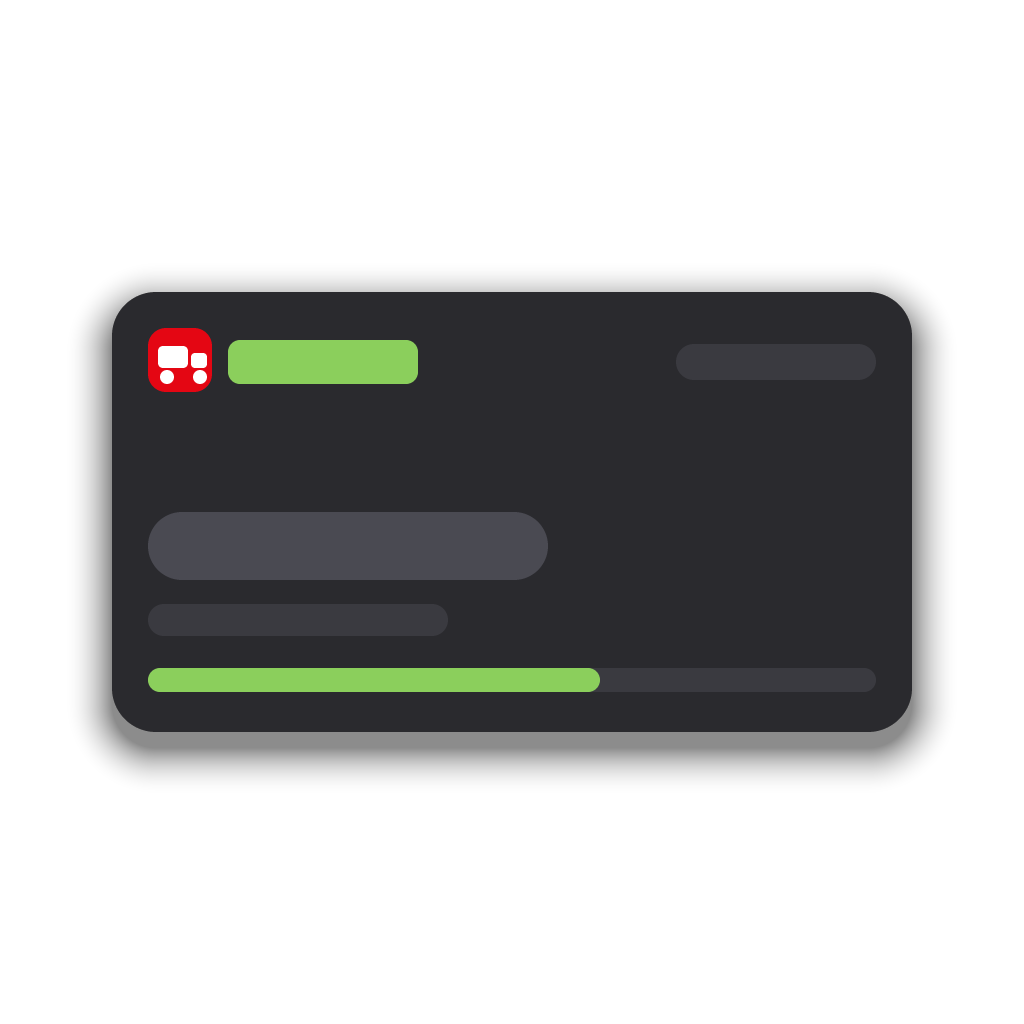
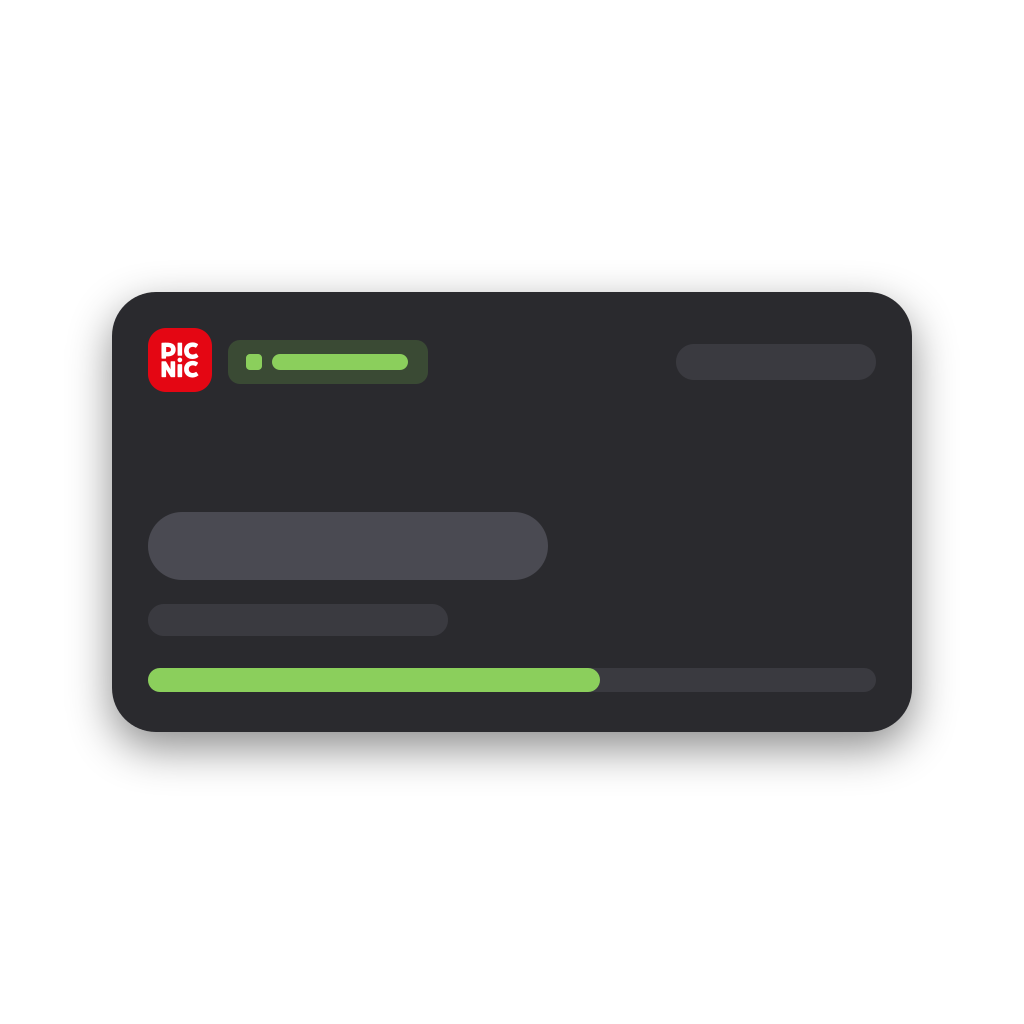
Show every state of the widget without a Homey
`make gallery` serves the widget's own page fed each state in
test/support/widgetstates.js, in both widths, both themes and either
language, for working on the widget without installing it after every
change. `make previews` redraws the App Store preview images from an
SVG through rsvg-convert, so Picnic's mark can be on them the way it is
on the widget; the shapes drawn by hand before could not carry it.

Changed region(s): [[0.0938, 0.2812, 0.9062, 0.75], [0.1562, 0.3125, 0.4375, 0.375]]

diff --git a/scripts/widget-gallery.js b/scripts/widget-gallery.js
@@ -1,0 +1,155 @@
+#!/usr/bin/env node
+'use strict';
+
+// Shows every state of the delivery widget in a browser, without a Homey: the
+// widget's own page, fed the payloads in test/support/widgetstates.js by a
+// stand-in for the Homey object, on a page that lays them out in both widths
+// and both themes. For looking at the widget while working on it:
+//
+//   make gallery          (or: node scripts/widget-gallery.js)
+//
+// then open the address it prints. Edit widgets/delivery/public/index.html or
+// the states and reload. PORT picks another port.
+
+const fs = require('fs');
+const http = require('http');
+const path = require('path');
+const { widgetStates } = require('../test/support/widgetstates.js');
+
+const ROOT = path.join(__dirname, '..');
+const PUBLIC = path.join(ROOT, 'widgets', 'delivery', 'public');
+const PORT = Number(process.env.PORT) || 8770;
+
+// The Homey style variables the widget reads, with the values a dashboard
+// gives them, as far as they are known; the widget has a fallback for each.
+const THEMES = {
+  light: "--homey-text-color:#1b1b1d;--homey-text-color-light:#86868b;--homey-background-color:#ffffff;",
+  dark: "--homey-text-color:#f2f2f4;--homey-text-color-light:#8e8e93;--homey-background-color:#1c1c1e;"
+};
+
+const TYPES = { '.html': 'text/html; charset=utf-8', '.js': 'text/javascript', '.css': 'text/css', '.svg': 'image/svg+xml', '.png': 'image/png', '.json': 'application/json' };
+
+function page() {
+  return `<!doctype html>
+<html lang="en">
+<head>
+<meta charset="utf-8">
+<title>Delivery widget, every state</title>
+<style>
+  body { margin: 0; padding: 20px; font-family: -apple-system, BlinkMacSystemFont, 'Segoe UI', Roboto, sans-serif; background: #c9c9d0; color: #1b1b1d; }
+  header { display: flex; flex-wrap: wrap; gap: 16px; align-items: center; margin-bottom: 20px; font-size: 14px; }
+  header label { display: inline-flex; gap: 6px; align-items: center; }
+  .theme { padding: 16px; border-radius: 16px; margin-bottom: 20px; }
+  .light { background: #eceff3; }
+  .dark { background: #0d0d0e; color: #eee; }
+  .theme h2 { margin: 0 0 12px; font-size: 13px; font-weight: 600; opacity: .6; }
+  .grid { display: flex; flex-wrap: wrap; gap: 16px; align-items: flex-start; }
+  figure { margin: 0; }
+  figcaption { font-size: 11px; opacity: .6; margin-top: 4px; max-width: 358px; }
+  iframe { display: block; border: 0; border-radius: 18px; height: 188px; background: #fff; box-shadow: 0 1px 3px rgba(0,0,0,.08); }
+  .dark iframe { background: #1c1c1e; }
+  pre { display: none; font-size: 11px; white-space: pre-wrap; max-width: 358px; }
+  figure.open pre { display: block; }
+</style>
+</head>
+<body>
+<header>
+  <strong>Delivery widget</strong>
+  <label>language <select id="lang"><option value="nl">nl</option><option value="en">en</option></select></label>
+  <label>width <select id="width"><option value="358">full (358 px)</option><option value="171">half (171 px)</option><option value="both">both</option></select></label>
+  <label>theme <select id="theme"><option value="both">both</option><option value="light">light</option><option value="dark">dark</option></select></label>
+  <span style="opacity:.6">click a tile's caption for its payload</span>
+</header>
+<div id="galleries"></div>
+<script>
+const THEMES = ${JSON.stringify(THEMES)};
+const controls = { lang: document.getElementById('lang'), width: document.getElementById('width'), theme: document.getElementById('theme') };
+const query = new URLSearchParams(location.search);
+for (const key in controls) { if (query.get(key)) controls[key].value = query.get(key); controls[key].addEventListener('change', build); }
+
+async function build() {
+  const params = new URLSearchParams(Object.fromEntries(Object.entries(controls).map(([k, c]) => [k, c.value])));
+  history.replaceState(null, '', '?' + params);
+  const states = await fetch('/states.json?lang=' + controls.lang.value).then(r => r.json());
+  const themes = controls.theme.value == 'both' ? ['light', 'dark'] : [controls.theme.value];
+  const widths = controls.width.value == 'both' ? [358, 171] : [Number(controls.width.value)];
+  const galleries = document.getElementById('galleries');
+  galleries.textContent = '';
+
+  for (const theme of themes) {
+    for (const width of widths) {
+      const section = document.createElement('div');
+      section.className = 'theme ' + theme;
+      section.innerHTML = '<h2>' + theme + ' · ' + width + ' px</h2><div class="grid"></div>';
+      const grid = section.querySelector('.grid');
+
+      for (const id in states) {
+        const figure = document.createElement('figure');
+        const frame = document.createElement('iframe');
+        frame.style.width = width + 'px';
+        frame.title = id;
+        frame.src = '/widget/index.html';
+        frame.addEventListener('load', () => mount(frame, theme, states[id].payload));
+        const caption = document.createElement('figcaption');
+        caption.textContent = id + ' — ' + states[id].title;
+        caption.addEventListener('click', () => figure.classList.toggle('open'));
+        const dump = document.createElement('pre');
+        dump.textContent = JSON.stringify(Object.assign({}, states[id].payload, { labels: '…' }), null, 1);
+        figure.append(frame, caption, dump);
+        grid.append(figure);
+      }
+
+      galleries.append(section);
+    }
+  }
+}
+
+// What Homey does to the widget's page before the widget's own script runs:
+// the style variables, the dark mode class, and the Homey object.
+function mount(frame, theme, payload) {
+  const doc = frame.contentDocument;
+  if (theme == 'dark') doc.body.classList.add('homey-dark-mode');
+  doc.documentElement.style.cssText = THEMES[theme] + 'font-family:-apple-system,BlinkMacSystemFont,"Segoe UI",Roboto,sans-serif;color:var(--homey-text-color);background:var(--homey-background-color)';
+  frame.contentWindow.onHomeyReady({
+    getSettings: () => ({}),
+    on() { },
+    ready() { },
+    api: () => Promise.resolve(payload)
+  });
+}
+
+build();
+</script>
+</body>
+</html>`;
+}
+
+const server = http.createServer((request, response) => {
+  const url = new URL(request.url, 'http://localhost');
+
+  if (url.pathname == '/') {
+    response.writeHead(200, { 'Content-Type': TYPES['.html'] });
+    return response.end(page());
+  }
+
+  if (url.pathname == '/states.json') {
+    response.writeHead(200, { 'Content-Type': TYPES['.json'], 'Cache-Control': 'no-store' });
+    return response.end(JSON.stringify(widgetStates(url.searchParams.get('lang') == 'en' ? 'en' : 'nl')));
+  }
+
+  if (url.pathname.startsWith('/widget/')) {
+    const file = path.normalize(path.join(PUBLIC, url.pathname.slice('/widget/'.length)));
+
+    if (file.startsWith(PUBLIC) && fs.existsSync(file) && fs.statSync(file).isFile()) {
+      response.writeHead(200, { 'Content-Type': TYPES[path.extname(file)] || 'application/octet-stream', 'Cache-Control': 'no-store' });
+      return fs.createReadStream(file).pipe(response);
+    }
+  }
+
+  response.writeHead(404);
+  response.end('not here');
+});
+
+server.listen(PORT, '127.0.0.1', () => {
+  console.log('The widget gallery is at http://127.0.0.1:' + PORT + '/ (stop it with ctrl-c)');
+});

diff --git a/scripts/previews.js b/scripts/previews.js
@@ -1,0 +1,75 @@
+#!/usr/bin/env node
+'use strict';
+
+// Draws widgets/delivery/preview-light.png and preview-dark.png, the pictures
+// of the widget in the App Store and in the widget picker, the way Homey's
+// preview template does: the widget's own frame with the template's soft
+// shadow on a transparent 1024x1024 canvas, and inside it the shape of the
+// widget with nothing written on it. No text, simple shapes, few colours; the
+// one exception to "no text" is Picnic's mark, which is the widget's icon.
+//
+//   make previews         (or: node scripts/previews.js)
+//
+// Needs rsvg-convert (librsvg): brew install librsvg.
+
+const fs = require('fs');
+const path = require('path');
+const { execFileSync } = require('child_process');
+
+const ROOT = path.join(__dirname, '..');
+const OUT = path.join(ROOT, 'widgets', 'delivery');
+
+// Picnic's mark: the letters of the app icon, the same file the widget uses
+const icon = fs.readFileSync(path.join(ROOT, 'assets', 'icon.svg'), 'utf8');
+const MARK = icon.match(/<path[\s\S]*?\/>/g).map(p => p.replace(/\s+/g, ' ')).join('');
+
+const THEMES = {
+  light: { card: '#ffffff', shadow: 0.16, line: '#ececf3', headline: '#d9d9e3', good: '#4b7f24', tint: '#e4ece0' },
+  dark: { card: '#2a2a2e', shadow: 0.45, line: '#3a3a40', headline: '#4a4a52', good: '#8bcf5c', tint: '#3a4a34' }
+};
+
+// The frame is 800x440, the widget's own 358x188 scaled up by 2.23.
+function svg(theme) {
+  const t = THEMES[theme];
+  const bar = (x, y, w, h, fill, r) => `<rect x="${x}" y="${y}" width="${w}" height="${h}" rx="${r === undefined ? h / 2 : r}" fill="${fill}"/>`;
+
+  return `<svg xmlns="http://www.w3.org/2000/svg" width="1024" height="1024" viewBox="0 0 1024 1024">
+<defs>
+  <filter id="shadow" x="-20%" y="-20%" width="140%" height="150%">
+    <feGaussianBlur in="SourceAlpha" stdDeviation="22"/>
+    <feOffset dy="16" result="blur"/>
+    <feComponentTransfer><feFuncA type="linear" slope="${t.shadow}"/></feComponentTransfer>
+    <feMerge><feMergeNode/><feMergeNode in="SourceGraphic"/></feMerge>
+  </filter>
+</defs>
+${bar(112, 292, 800, 440, t.card, 44).replace('/>', ' filter="url(#shadow)"/>')}
+${bar(148, 328, 64, 64, '#e40613', 18)}
+<g transform="translate(157 337) scale(0.0324)" fill="#ffffff">${MARK}</g>
+${bar(228, 340, 200, 44, t.tint, 12)}
+${bar(246, 354, 16, 16, t.good, 4)}
+${bar(272, 354, 136, 16, t.good)}
+${bar(676, 344, 200, 36, t.line)}
+${bar(148, 512, 400, 68, t.headline)}
+${bar(148, 604, 300, 32, t.line)}
+${bar(148, 668, 728, 24, t.line)}
+${bar(148, 668, 452, 24, t.good)}
+</svg>
+`;
+}
+
+function main() {
+  try {
+    execFileSync('rsvg-convert', ['--version'], { stdio: 'ignore' });
+  } catch (exception) {
+    console.error('rsvg-convert is not installed; on a Mac: brew install librsvg');
+    process.exit(1);
+  }
+
+  for (const theme of Object.keys(THEMES)) {
+    const file = path.join(OUT, 'preview-' + theme + '.png');
+    execFileSync('rsvg-convert', ['--width', '1024', '--height', '1024', '--format', 'png', '--output', file], { input: svg(theme) });
+    console.log('drawn ' + path.relative(ROOT, file));
+  }
+}
+
+main();

diff --git a/CHANGELOG.md b/CHANGELOG.md
@@ -37,6 +37,7 @@ each release is what Homey shows in the app store, and lives in `.homeychangelog
 - A late delivery says how late: "12 minuten na het aangekondigde moment". A delivered one no longer says "Bezorgd" twice: the badge says it, the headline says when
 - With nothing planned, and with a cart that has no slot, the widget says when something could be delivered: "Bezorgmomenten morgen: 3 van 12 vrij" and "Eerste om 08:30", counted from the two weeks of slots Picnic lists with the cart. A slot that closed unordered asks for a new one instead of only saying it is too late
 - The names of the states are short enough to sit between the mark and the amount: "Wordt bezorgd" became "Komt eraan"
+- `make gallery` shows every state of the widget in a browser, in both widths and both themes, without a Homey, and the states it shows are the ones the tests put through the widget. `make previews` redraws the App Store preview images, which now carry Picnic's mark
 
 ## 3.7.0
 

diff --git a/README.md b/README.md
@@ -147,6 +147,20 @@ While the app is running, the files under `widgets/delivery/public/` are served
 straight from this folder. Editing the widget and reloading it on the dashboard
 shows the change without restarting the app.
 
+The widget can also be looked at without a Homey, in every state at once:
+
+```bash
+make gallery
+```
+
+serves a page with the widget's own code fed each of the states in
+`test/support/widgetstates.js`, in both widths and both themes and either
+language; edit the widget or the states and reload. Those same states go
+through the widget in the tests, so a state that renders wrong is caught
+there first. `make previews` redraws the two preview images in
+`widgets/delivery/` from `scripts/previews.js` (it needs `rsvg-convert`, from
+`brew install librsvg`).
+
 ## Changelog
 
 Every release and what changed in it is in [CHANGELOG.md](CHANGELOG.md).
